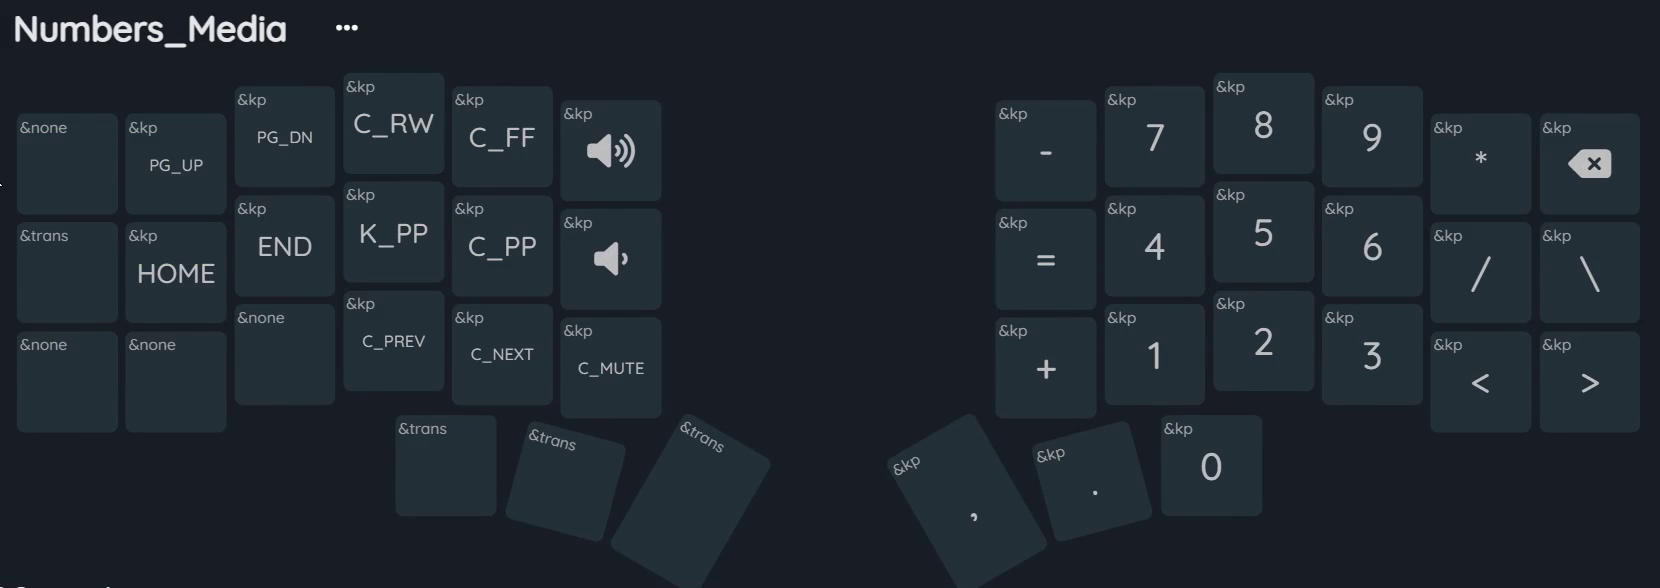
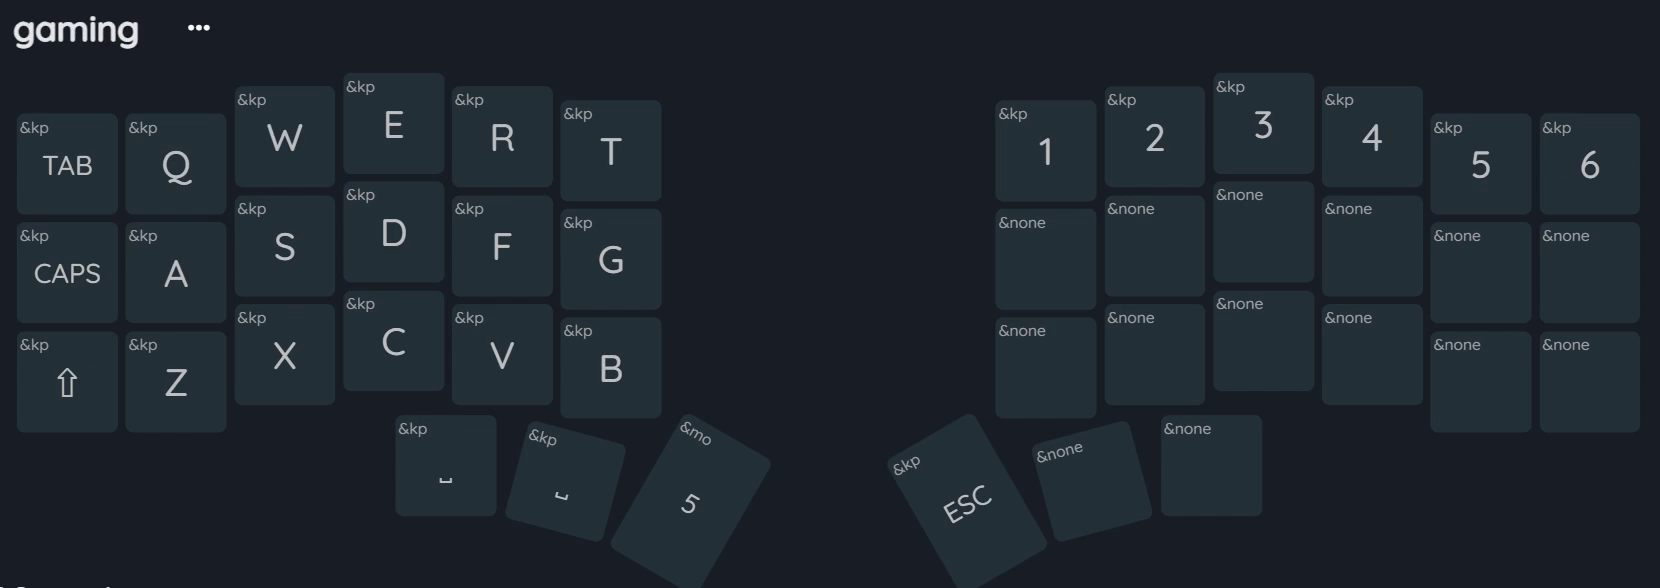
Fix not updating images

diff --git a/keyboardglance/ConfigWindow.xaml b/keyboardglance/ConfigWindow.xaml
@@ -21,8 +21,8 @@
                 </StackPanel>
                 <Button x:Name="btnPlacement" Content="Choose popup size and location" Width="250" Padding="0" Background="DarkSlateGray" Foreground="White" 
                         Margin="0,5" Click="BtnPlacement_OnClick"/>
-                <Button x:Name="btnImages" Content="Open image folder" Width="200" Padding="0" Background="DarkSlateGray" Foreground="White" 
-                        Margin="0,5,0,0" Click="BtnImages_OnClick"/>
+                <Button x:Name="btnImages" Content="Manage images" Width="200" Padding="0" Background="DarkSlateGray" Foreground="White" 
+                        Margin="0,5,0,0" Click="BtnManageImages_OnClick"/>
                 <Label Content="Your preferred key combinations:" Foreground="White" HorizontalAlignment="Center"/>
                 <GroupBox HorizontalAlignment="Center">
                     <StackPanel Orientation="Horizontal" HorizontalAlignment="Center">

diff --git a/keyboardglance/Templates.xaml b/keyboardglance/Templates.xaml
@@ -1,0 +1,15 @@
+<ResourceDictionary xmlns="http://schemas.microsoft.com/winfx/2006/xaml/presentation"
+                    xmlns:x="http://schemas.microsoft.com/winfx/2006/xaml">
+    <!-- Image Button Template -->
+    <ControlTemplate x:Key="ImageButtonTemplate" TargetType="Button">
+        <Button Width="{TemplateBinding Width}" 
+                Height="{TemplateBinding Height}"
+                Background="Transparent"
+                BorderThickness="0"
+                Cursor="Hand"
+                Margin="5">
+            <Image Source="{TemplateBinding Tag}" 
+                   Stretch="Uniform" />
+        </Button>
+    </ControlTemplate>
+</ResourceDictionary>

diff --git a/keyboardglance/MainWindow.xaml b/keyboardglance/MainWindow.xaml
@@ -12,6 +12,6 @@
         ShowInTaskbar="False"
         >
     <Grid>
-        <Image x:Name="imgLayer" Source="resources/layer_0.png"/>
+        <Image x:Name="imgLayer" Source="resources/splash.png"/>
     </Grid>
 </Window>

diff --git a/keyboardglance/MainWindow.xaml.cs b/keyboardglance/MainWindow.xaml.cs
@@ -11,7 +11,7 @@ using System.Windows.Media.Imaging;
 using System.Windows.Navigation;
 using System.Windows.Shapes;
 using Gma.System.MouseKeyHook;
-using KeyEventArgs = System.Windows.Input.KeyEventArgs;
+using KeyEventArgs=System.Windows.Input.KeyEventArgs;
 
 namespace keyboardglance;
 
@@ -22,41 +22,35 @@ public partial class MainWindow : Window
 {
     private const double StartingOpacity = 1;
     private NotifyIcon _notifyIcon;
-    private const string IconLocation = "resources/notifyicon.ico"; //<a href="https://www.flaticon.com/free-icons/keyboard-and-mouse" title="Keyboard and mouse icons">Keyboard and mouse icons created by Muhammad Atif - Flaticon</a> 
-    private List<Key> _keyCombo = [Key.RightAlt,Key.RightCtrl];
-    private Dictionary<Key, Uri> _layerKeyMap = new ()
+    private const string IconLocation = "resources/notifyicon.ico";//<a href="https://www.flaticon.com/free-icons/keyboard-and-mouse" title="Keyboard and mouse icons">Keyboard and mouse icons created by Muhammad Atif - Flaticon</a> 
+    private List<Key> _keyCombo = [Key.RightAlt, Key.RightCtrl];
+    public static Dictionary<int, string> Layers { get; set; }
+
+    private Dictionary<Key, int> _layerKeyMap = new()
     {
-        {Key.D0,new Uri("resources/layer_0.png",UriKind.Relative)},
-        {Key.D1,new Uri("resources/layer_1.png",UriKind.Relative)},
-        {Key.D2,new Uri("resources/layer_2.png",UriKind.Relative)},
-        {Key.D3,new Uri("resources/layer_3.png",UriKind.Relative)},
-        {Key.D4,new Uri("resources/layer_4.png",UriKind.Relative)},
-        {Key.D5,new Uri("resources/layer_5.png",UriKind.Relative)},
-        {Key.D6,new Uri("resources/layer_6.png",UriKind.Relative)},
-        {Key.D7,new Uri("resources/layer_7.png",UriKind.Relative)},
-        {Key.D8,new Uri("resources/layer_8.png",UriKind.Relative)},
-        {Key.D9,new Uri("resources/layer_9.png",UriKind.Relative)},
+        { Key.D0, 0 }, { Key.D1, 1 }, { Key.D2, 2 }, { Key.D3, 3 }, { Key.D4, 4 },
+        { Key.D5, 5 }, { Key.D6, 6 }, { Key.D7, 7 }, { Key.D8, 8 }, { Key.D9, 9 },
     };
 
     private Dictionary<string, Key> _comboKeyMap = new()
     {
-        {"LALT", Key.LeftAlt},
-        {"LSHIFT", Key.LeftShift},
-        {"LCTRL", Key.LeftCtrl},
-        {"LGUI", Key.LWin}, 
-        {"RALT", Key.RightAlt},
-        {"RSHIFT", Key.RightShift},
-        {"RCTRL", Key.RightCtrl},
-        {"RGUI", Key.RWin}
+        { "LALT", Key.LeftAlt },
+        { "LSHIFT", Key.LeftShift },
+        { "LCTRL", Key.LeftCtrl },
+        { "LGUI", Key.LWin },
+        { "RALT", Key.RightAlt },
+        { "RSHIFT", Key.RightShift },
+        { "RCTRL", Key.RightCtrl },
+        { "RGUI", Key.RWin }
     };
 
-    private Dictionary<Key,bool> _pressedKeys = new(); 
+    private Dictionary<Key, bool> _pressedKeys = new();
     private IKeyboardMouseEvents _globalHook;
-    private int _windowDelay=100;
+    private int _windowDelay = 100;
     private int _currentDelay;
     private CancellationTokenSource _cancellationTokenSource = new();
 
-    public MainWindow(string keyCombo,(double,double) size, (double,double) location)
+    public MainWindow(string keyCombo, (double, double) size, (double, double) location)
     {
         InitializeComponent();
         InitializeNotifyIcon();
@@ -65,15 +59,19 @@ public partial class MainWindow : Window
         HideWindow(_cancellationTokenSource.Token);
         AdjustPlacement(size, location);
         _notifyIcon.ShowBalloonTip(1000, "Minimized to system tray", "The application is still running in the background.", ToolTipIcon.Info);
+
+        if (Layers?.Count > 0)
+            return;
+        Layers = ImageManagementWindow.InitializeLayers();
     }
 
     #region Event handlers
     private void MainWindow_OnKeyDown(object sender, KeyEventArgs e)
     {
-        _pressedKeys.TryAdd(e.Key,true);
-        if(WindowState == WindowState.Normal) return;
+        _pressedKeys.TryAdd(e.Key, true);
+        if (WindowState == WindowState.Normal) return;
         if (!IsComboPressed()) return;
-        Uri layerUri = GetLayerUri()?? throw new InvalidOperationException();
+        Uri layerUri = GetLayerUri() ?? throw new InvalidOperationException();
         ShowWindow(layerUri);
     }
 
@@ -81,9 +79,9 @@ public partial class MainWindow : Window
     {
         foreach (Key key in _pressedKeys.Keys)
         {
-            if (_layerKeyMap.TryGetValue(key, out Uri? result)) return result;
+            if (_layerKeyMap.TryGetValue(key, out int result))
+                return new Uri(Layers[result], UriKind.RelativeOrAbsolute);
         }
-
         return null;
     }
 
@@ -91,7 +89,7 @@ public partial class MainWindow : Window
     {
         if (!_pressedKeys.ContainsKey(e.Key)) return;
         _pressedKeys.Remove(e.Key);
-        if(IsComboPressed()) return;
+        if (IsComboPressed()) return;
         HideWindow(_cancellationTokenSource.Token);
     }
     protected override void OnClosed(EventArgs e)
@@ -104,10 +102,8 @@ public partial class MainWindow : Window
     private void NotifyIcon_DoubleClick(object? sender, EventArgs e)
     {
         (new ConfigWindow()).Show();
-        Close(); 
+        Close();
     }
-    
-
     #endregion
     #region Keyboard hook methods
     private void HookKeyboard()
@@ -120,17 +116,15 @@ public partial class MainWindow : Window
     {
         Key key = KeyInterop.KeyFromVirtualKey(e.KeyValue);
         KeyEventArgs newE = new KeyEventArgs(Keyboard.PrimaryDevice, PresentationSource.FromVisual(this), 0, key);
-        MainWindow_OnKeyDown(sender,newE);
+        MainWindow_OnKeyDown(sender, newE);
     }
 
     private void GlobalHook_KeyUp(object sender, System.Windows.Forms.KeyEventArgs e)
     {
         Key key = KeyInterop.KeyFromVirtualKey(e.KeyValue);
         KeyEventArgs newE = new KeyEventArgs(Keyboard.PrimaryDevice, PresentationSource.FromVisual(this), 0, key);
-        MainWindow_OnKeyUp(sender,newE);
+        MainWindow_OnKeyUp(sender, newE);
     }
-    
-
     #endregion
 
     private void AssignComboKeys(string comboKeyString)
@@ -143,7 +137,15 @@ public partial class MainWindow : Window
     private void ShowWindow(Uri layerUri)
     {
         _cancellationTokenSource.Cancel();
-        imgLayer.Source = new BitmapImage(layerUri);
+
+        var bitmapImage = new BitmapImage();
+        bitmapImage.BeginInit();
+        bitmapImage.CacheOption = BitmapCacheOption.OnLoad;
+        bitmapImage.UriSource = layerUri;
+        bitmapImage.EndInit();
+        imgLayer.Source = bitmapImage;
+
+
         Opacity = StartingOpacity;
         _currentDelay = 0;
         Show();
@@ -151,6 +153,7 @@ public partial class MainWindow : Window
         Topmost = true;
         Activate();
         Focusable = false;
+
         _cancellationTokenSource = new CancellationTokenSource();
     }
     private bool IsComboPressed()
@@ -181,8 +184,7 @@ public partial class MainWindow : Window
         _notifyIcon.Visible = true;
         _notifyIcon.DoubleClick += NotifyIcon_DoubleClick;
         var contextMenu = new ContextMenuStrip();
-        contextMenu.Items.Add("Config", null, (s, e) =>
-        {
+        contextMenu.Items.Add("Config", null, (s, e) => {
             (new ConfigWindow()).Show();
             Close();
         });

diff --git a/keyboardglance/ConfigWindow.xaml.cs b/keyboardglance/ConfigWindow.xaml.cs
@@ -58,13 +58,16 @@ public partial class ConfigWindow : Window
         _location.Item1 = placement.Left;
         _location.Item2 = placement.Top;
     }
-    private void BtnImages_OnClick(object sender, RoutedEventArgs e)
+
+    private void BtnManageImages_OnClick(object sender, RoutedEventArgs e)
     {
-        Process.Start("explorer.exe" , @"resources");
+        var imageManagementWindow = new ImageManagementWindow();
+        imageManagementWindow.ShowDialog();
     }
     private void UIElement_OnMouseDown(object sender, MouseButtonEventArgs e)
     {
-        DragMove();
+        if(e.ChangedButton == MouseButton.Left)
+            DragMove();
     }
     #endregion
     

diff --git a/keyboardglance/HelperWindows/PlacementWindow.xaml.cs b/keyboardglance/HelperWindows/PlacementWindow.xaml.cs
@@ -19,7 +19,8 @@ public partial class PlacementWindow : Window
 
     private void PlacementWindow_OnMouseDown(object sender, MouseButtonEventArgs e)
     {
-        DragMove();
+        if(e.ChangedButton == MouseButton.Left)
+            DragMove();
     }
 
     private void BtnConfirm_OnClick(object sender, RoutedEventArgs e)
